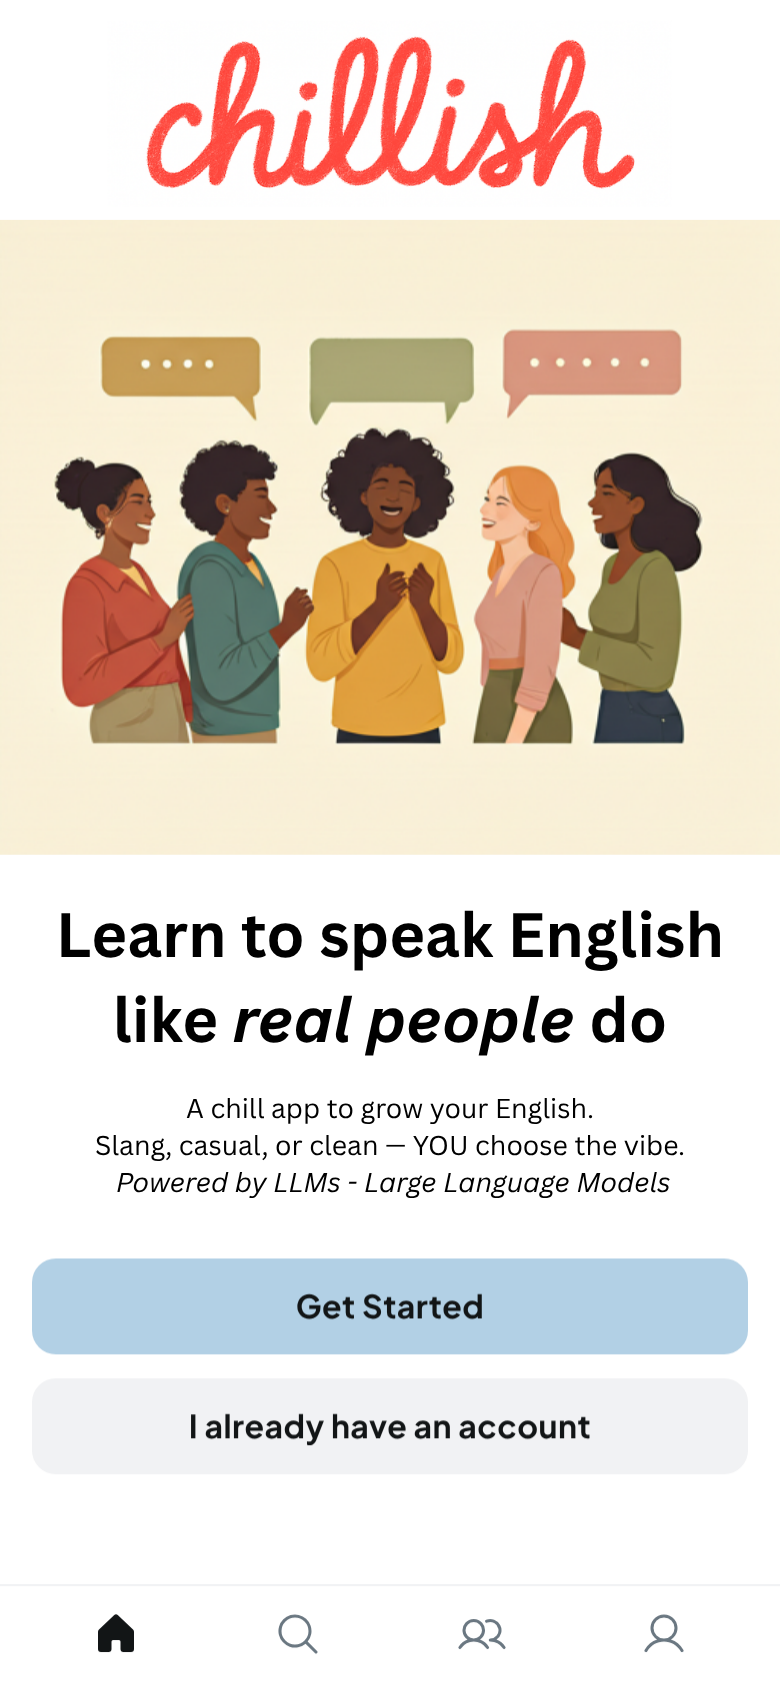
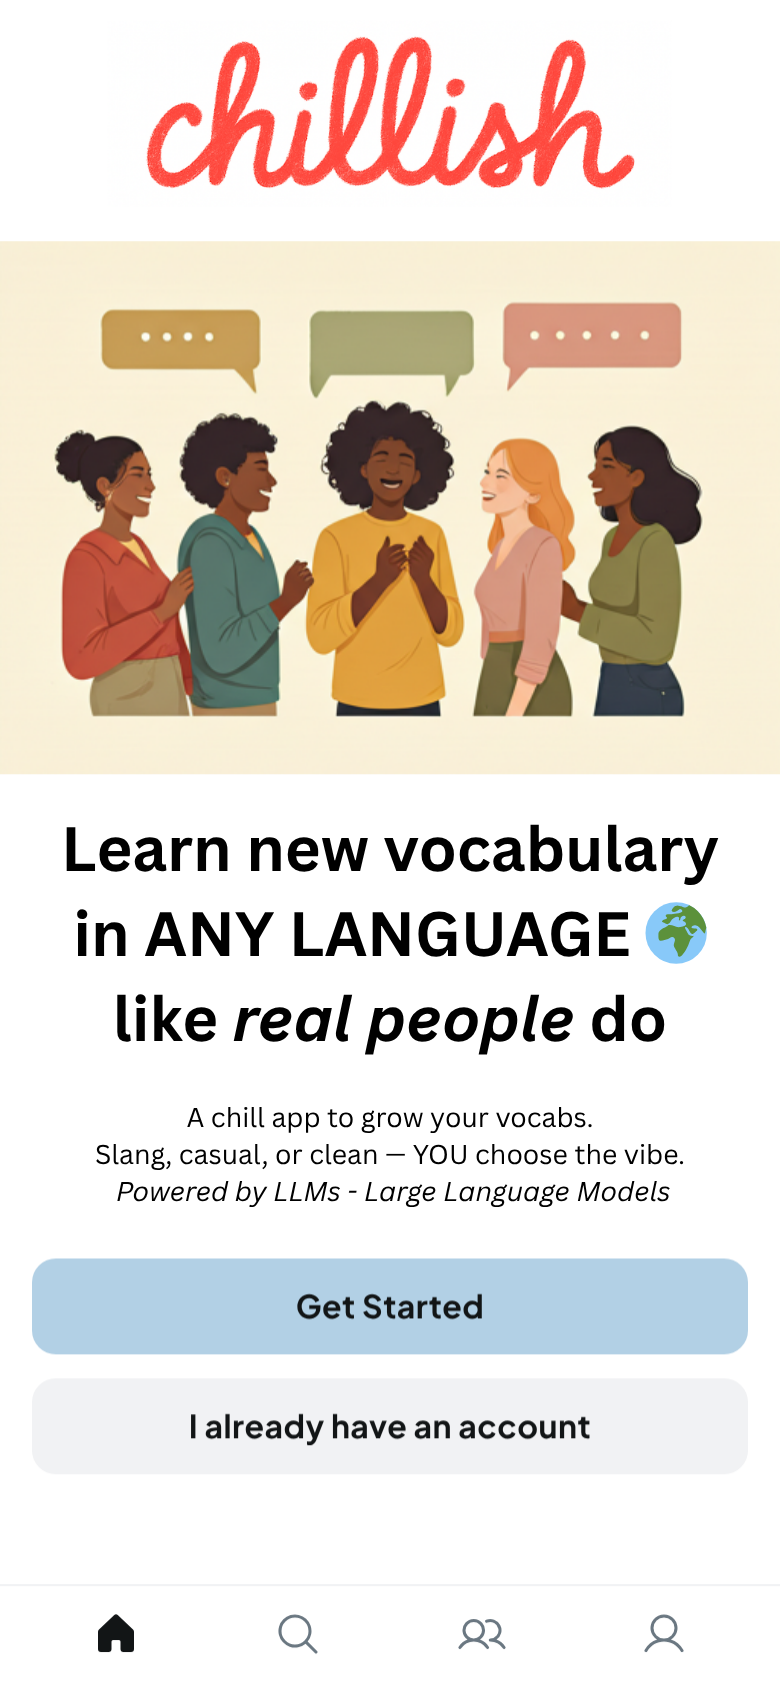
Update for universal dictionary (#6)
* Remove placeholder screenshot

* add images

Changed region(s): [[0.0, 0.1232, 1.0, 0.6161], [0.1231, 0.6469, 0.8615, 0.7393], [0.2462, 0.5853, 0.2769, 0.6161]]

diff --git a/index.html b/index.html
@@ -3,14 +3,14 @@
   <head>
     <meta charset="UTF-8" />
     <meta name="viewport" content="width=device-width, initial-scale=1.0" />
-    <meta name="description" content="chillish is a free English dictionary powered by AI and LLMs. Discover meanings, translations and more with our smart dictionary." />
-    <meta name="keywords" content="Dictionary, English Dictionary, Free dictionary, AI, LLM" />
+    <meta name="description" content="chillish is a free AI universal dictionary powered by LLMs. Discover meanings, translations and more for any language." />
+    <meta name="keywords" content="Dictionary, Universal Dictionary, Free dictionary, AI, LLM" />
     <meta name="robots" content="index,follow" />
     <meta property="og:title" content="chillish - Reinvent the Dictionary with AI" />
-    <meta property="og:description" content="Learn English the way real people speak with our AI powered dictionary." />
+    <meta property="og:description" content="Learn languages the way real people speak with our AI powered dictionary." />
     <meta property="og:image" content="landing-page.jpeg" />
     <title>
-      chillish - Reinvent Dictionary, Learn English Like Real People Speak
+      chillish - AI Universal Dictionary for Real Language Learning
     </title>
     <!-- Google tag (gtag.js) -->
     <script
@@ -54,7 +54,7 @@
           <div class="logo">
             <img
               src="header-logo.png"
-              alt="chillish English dictionary logo"
+              alt="chillish dictionary logo"
             />
           </div>
           <a href="#waitlist" class="cta-button pulse">Join Waitlist</a>
@@ -66,17 +66,17 @@
       <div class="container">
         <img
           src="chillish-logo.png"
-          alt="chillish free dictionary logo - Reinvent Dictionary, Learn English the way real people speak"
+          alt="chillish free dictionary logo - AI Universal Dictionary"
         />
         <div class="subtitle">
-          ✨ Reinvent Dictionary, Learn English the way
+          ✨ Reinvent Dictionary, learn languages the way
           <i>real people</i> actually talk
         </div>
         <p class="description">
-          Powered by LLMs and AI, chillish is your free English dictionary for
-          real life. Stop sounding like Google Translate and start speaking like
-          a native. 🎉 Our smart dictionary learns from you and helps you master
-          vocabulary fast.
+          Powered by LLMs and AI, chillish is your free universal dictionary for
+          real life. Stop sounding like Google Translate and start speaking
+          naturally in any language. 🎉 Our smart dictionary learns from you and
+          helps you master vocabulary fast.
           <br /><br /><strong>🚀 Coming Soon!</strong> Join our waitlist to be
           the first to know when we launch.
         </p>
@@ -109,7 +109,7 @@
                   </div>
                   <div class="screenshot-placeholder" data-feature="1">
                     <div class="placeholder-content">
-                        <img src="screenshots/2-choose-ur-style.PNG" alt="choose your English style" />
+                        <img src="screenshots/2-choose-ur-style.PNG" alt="choose your style" />
                     </div>
                   </div>
                   <div class="screenshot-placeholder" data-feature="1">
@@ -122,11 +122,16 @@
                         <img src="screenshots/4-rewrite-and-explain.PNG" alt="rewrite and explain text" />
                     </div>
                   </div>
-                  <div class="screenshot-placeholder" data-feature="1">
+                <div class="screenshot-placeholder" data-feature="1">
                     <div class="placeholder-content">
                         <img src="screenshots/5-flashcard-promote-memory.PNG" alt="flashcards to remember vocabulary" />
                     </div>
-                  </div>
+                </div>
+                <div class="screenshot-placeholder" data-feature="1">
+                    <div class="placeholder-content">
+                        <img src="screenshots/6-universal-ai-dictionary.PNG" alt="supports any language" />
+                    </div>
+                </div>
                 </div>
               </div>
             </div>
@@ -141,7 +146,7 @@
                 </h3>
                 <p>
                   🙅♂ NO, not just another language app — this chill AI-powered
-                  tool helps you speak English like real people do, in your own
+                  tool helps you speak any language like real people do, in your own
                   vibe.
                 </p>
                 <ul>
@@ -150,7 +155,7 @@
                     🎯 Pick your style: slang, casual, clean or customize
                     yourself
                   </li>
-                  <li>🌱 Grow your English the fun, real-life way</li>
+                  <li>🌱 Grow your vocabulary the fun, real-life way</li>
                 </ul>
               </div>
 
@@ -200,7 +205,7 @@
                 <h3>✍ Text Rewriter</h3>
                 <p>
                   Paste your text and watch it transform into natural,
-                  native-sounding English. We don't just fix it - we explain
+                  native-sounding language. We don't just fix it - we explain
                   what was wrong and why, so you actually learn.
                 </p>
                 <ul>
@@ -233,6 +238,25 @@
                   </li>
                 </ul>
               </div>
+
+              <div class="feature-content" data-feature="5">
+                <span class="feature-number">6</span>
+                <h3>🌍 Universal Dictionary</h3>
+                <p>
+                  Look up any word, slang, idiom, or phrase — in ANY LANGUAGE —
+                  and get real, native-style explanations. It’s like asking
+                  a bilingual bestie who actually gets how people talk.
+                </p>
+                <ul>
+                  <li>
+                    Understand how real people use it (not just textbook stuff)
+                  </li>
+                  <li>Works for slang, idioms, Gen Z talk, and rare words</li>
+                  <li>
+                    Always up-to-date with how people actually speak
+                  </li>
+                </ul>
+              </div>
             </div>
           </div>
 
@@ -247,6 +271,7 @@
               <span class="indicator" onclick="goToSlide(2)"></span>
               <span class="indicator" onclick="goToSlide(3)"></span>
               <span class="indicator" onclick="goToSlide(4)"></span>
+              <span class="indicator" onclick="goToSlide(5)"></span>
             </div>
             <button class="nav-btn next-btn" onclick="changeSlide(1)">❯</button>
           </div>
@@ -291,10 +316,10 @@
 
           <div class="feature-card">
             <span class="feature-emoji">🌍</span>
-            <h3>Real Translation</h3>
+            <h3>Universal Dictionary</h3>
             <p>
-              Send any non-English text and get it back in chill, natural
-              English that fits your vibe—no robotic translations.
+              Look up words in any language and get natural translations,
+              pronunciations and examples—no robotic results.
             </p>
           </div>
 
@@ -348,7 +373,7 @@
           <div class="roadmap-item">
             <h4>📝 Smart Notes</h4>
             <p>
-              Save words into themed notebooks like "Work English" or "Travel"
+              Save words into themed notebooks like "Work" or "Travel"
             </p>
           </div>
 
@@ -366,7 +391,7 @@
       <div class="container">
         <h2>Ready to Sound Like a Native? 🚀</h2>
         <p>
-          Join our waitlist and be among the first to experience English
+          Join our waitlist and be among the first to experience language
           learning that actually works.
         </p>
 
@@ -463,7 +488,7 @@
       <div class="container">
         <p>
           &copy; 2025 <span class="chillish-color">chillish</span>. Coming soon
-          to revolutionize English learning. ✨
+          to revolutionize language learning. ✨
         </p>
         <p style="margin-top: 10px; font-size: 0.9rem; opacity: 0.7">
           Questions? Email us at por@okproduction.co.th

diff --git a/scripts.js b/scripts.js
@@ -11,7 +11,7 @@ document.querySelectorAll(".feature-card").forEach((card) => {
 
 // Screenshot carousel functionality
 let currentSlide = 0;
-const totalSlides = 5;
+const totalSlides = 6;
 
 function updateCarousel() {
   // Update screenshot placeholders
@@ -41,13 +41,14 @@ function updateCarousel() {
 
   // Update screenshot content based on current slide
   const currentScreenshot = screenshots[currentSlide];
-  const icons = ["⚙", "📚", "✍", "🌍", "🧠"];
+  const icons = ["⚙", "📚", "✍", "🌍", "🧠", "🌐"];
   const titles = [
     "Setup Screen",
     "Dictionary View",
     "Rewriter Tool",
     "Translation Mode",
     "Flashcard Quiz",
+    "Language Support",
   ];
 
   // Add gradient variation for each screen
@@ -57,6 +58,7 @@ function updateCarousel() {
     "linear-gradient(135deg, #4facfe, #00f2fe)",
     "linear-gradient(135deg, #43e97b, #38f9d7)",
     "linear-gradient(135deg, #fa709a, #fee140)",
+    "linear-gradient(135deg, #ff9a9e, #fad0c4)",
   ];
   currentScreenshot.style.background = gradients[currentSlide];
 }

diff --git a/README.md b/README.md
@@ -1,7 +1,7 @@
 ![Chillish free dictionary landing page](./landing-page.jpeg)
 
 # chilllish 📕
-Chillish is a free English dictionary powered by AI and LLMs. Reinvent the dictionary and learn English the way real people speak.
+Chillish is a free AI universal dictionary powered by LLMs. Reinvent the dictionary and learn any language the way real people speak.
 
 Visit main website at [https://chillish.app](https://chillish.app)
 
